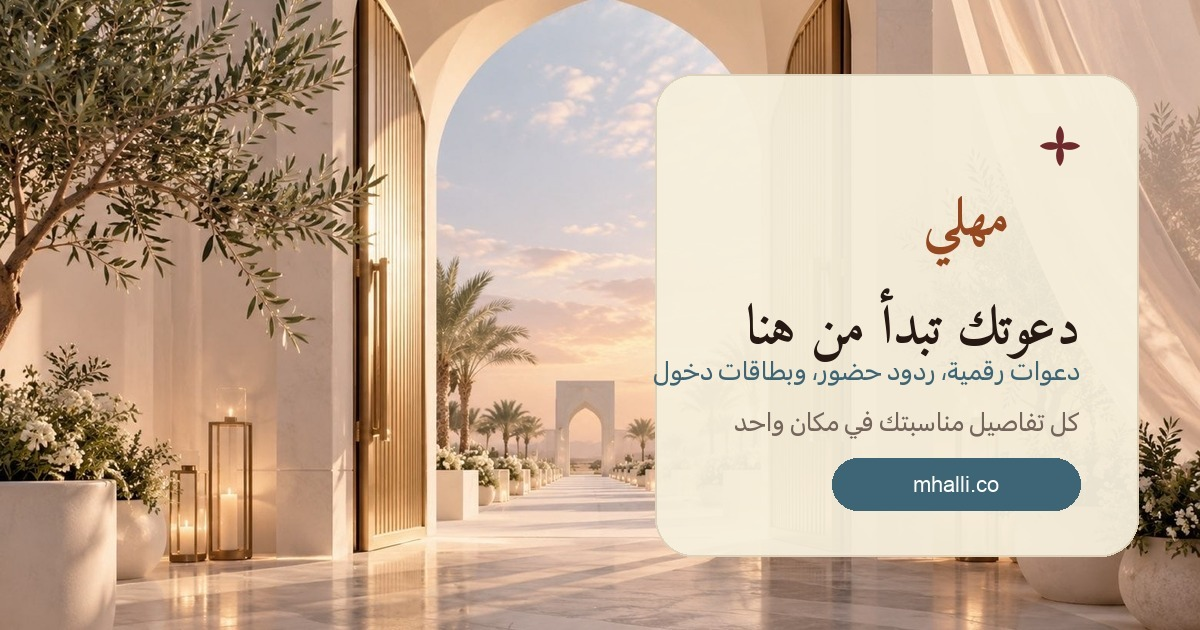
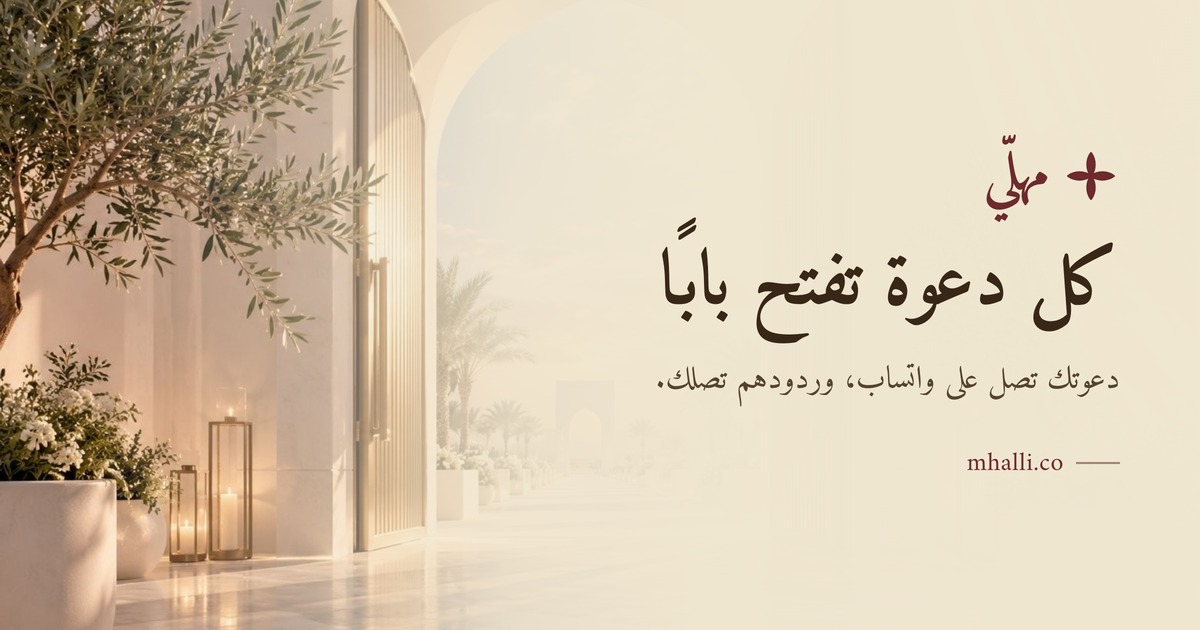
fix: one continuous thread, prices on load, and a share image worth sending
Three things.

**The chat now reads as one conversation.** It was cross-fading three
separate screens, so each step looked like a different thread starting
over. Every message now arrives under the last and the column slides up to
keep the newest in view, the way a real chat does — invitation, the
guest's tap coming back green, the confirmation, the pass.

**The prices are on the page when it loads.** Hiding them behind picking
the digital-invitation track was the instruction, and the rule still holds
— choosing the link track still hides them — but in practice it just read
as a site with no prices, three times over. It is the default that
changed, not the rule.

**New share image.** The old one had the wordmark spelled "مهلي" without
the shadda, the retired teal on the URL pill, and a white card dropped on
top of the photograph with four crowded lines inside it. Now: the
photograph with a warm scrim, the mark, the headline, one line, the
domain. Rendered through the app's own fonts and tokens so it cannot drift
from the site again.

Two things found on the way. My earlier CSS edit had deleted the
.phone-stage rules along with the animation block it replaced — the photo
was rendering unscaled with the chat floating beside it, which the render
showed immediately and the type checker could not. And audit:design was
measuring screen-reader-only text, which is clipped to 1px and not on
screen; it now skips anything that size.

diff --git a/components/marketing/guest-journey-scene.tsx b/components/marketing/guest-journey-scene.tsx
@@ -220,56 +220,70 @@ export function GuestJourneyScene({ copy, locale }: { copy: Copy; locale: string
 
           <div className="whatsapp-wallpaper absolute inset-x-0 top-[108px] bottom-[76px]" />
 
-          <div className="journey-screen journey-invite absolute inset-x-3 top-[108px] bottom-[76px] flex items-center">
-            <div className={`me-auto w-[285px] overflow-hidden bg-white ${bubble}`}>
-              <div className="relative aspect-square w-full overflow-hidden bg-[#f6efdc]">
-                <div className="absolute top-0 left-0 origin-top-left scale-[0.2639]">
-                  <SquareWeddingTemplate data={invitation} />
+          {/* One thread, filling up — not three screens taking turns.
+              Each message arrives under the last and the column slides up
+              to keep the newest in view, which is what a real chat does.
+              The cross-fade this replaces made every step look like a
+              different conversation. */}
+          <div className="absolute inset-x-3 top-[108px] bottom-[76px] overflow-hidden">
+            <div className="journey-thread flex flex-col gap-2 pt-2">
+              <div
+                className={`journey-msg journey-msg-1 me-auto w-[285px] overflow-hidden bg-white ${bubble}`}
+              >
+                <div className="relative aspect-square w-full overflow-hidden bg-[#f6efdc]">
+                  <div className="absolute top-0 left-0 origin-top-left scale-[0.2639]">
+                    <SquareWeddingTemplate data={invitation} />
+                  </div>
+                </div>
+                <p className="px-3 pt-2 pb-1.5 text-[14.5px] leading-[21px]">
+                  {copy.invitationText}
+                  <span className={`ms-2 ${rtl ? 'float-left' : 'float-right'} ${stamp}`}>
+                    {clock('12:20')}
+                  </span>
+                </p>
+                <div className="border-t border-[#e9edef]">
+                  {actions.map(([label, Icon]) => (
+                    <div
+                      key={String(label)}
+                      className="flex h-[42px] items-center justify-center gap-1.5 border-b border-[#e9edef] text-[15px] font-medium text-[#00a884] last:border-0"
+                    >
+                      <Icon className="size-[15px]" />
+                      {label}
+                    </div>
+                  ))}
                 </div>
               </div>
-              <p className="px-3 pt-2 pb-1.5 text-[14.5px] leading-[21px]">
-                {copy.invitationText}
-                <span className={`ms-2 ${rtl ? 'float-left' : 'float-right'} ${stamp}`}>
-                  {clock('12:20')}
-                </span>
-              </p>
-              <div className="border-t border-[#e9edef]">
-                {actions.map(([label, Icon]) => (
-                  <div
-                    key={String(label)}
-                    className="flex h-[42px] items-center justify-center gap-1.5 border-b border-[#e9edef] text-[15px] font-medium text-[#00a884] last:border-0"
-                  >
-                    <Icon className="size-[15px]" />
-                    {label}
-                  </div>
-                ))}
+
+              <div
+                className={`journey-msg journey-msg-2 ms-auto max-w-[70%] bg-[#d9fdd3] px-3 py-2 ${bubble}`}
+              >
+                <p className="text-[15px] leading-[20px]">{copy.confirmationReply}</p>
+                <p className={`${rtl ? 'text-left' : 'text-right'} ${stamp}`}>
+                  {clock('12:25')} ✓✓
+                </p>
               </div>
-            </div>
-          </div>
 
-          <div className="journey-screen journey-confirm absolute inset-x-3 top-[108px] bottom-[76px] flex flex-col justify-center gap-2">
-            <div className={`ms-auto max-w-[70%] bg-[#d9fdd3] px-3 py-2 ${bubble}`}>
-              <p className="text-[15px] leading-[20px]">{copy.confirmationReply}</p>
-              <p className={`${rtl ? 'text-left' : 'text-right'} ${stamp}`}>{clock('12:25')} ✓✓</p>
-            </div>
-            <div className={`me-auto max-w-[85%] bg-white px-3 py-2 ${bubble}`}>
-              <p className="text-[15px] leading-[21px]">{copy.confirmationReceipt}</p>
-              <p className={`${rtl ? 'text-left' : 'text-right'} ${stamp}`}>{clock('12:25')}</p>
-            </div>
-          </div>
+              <div
+                className={`journey-msg journey-msg-3 me-auto max-w-[85%] bg-white px-3 py-2 ${bubble}`}
+              >
+                <p className="text-[15px] leading-[21px]">{copy.confirmationReceipt}</p>
+                <p className={`${rtl ? 'text-left' : 'text-right'} ${stamp}`}>{clock('12:25')}</p>
+              </div>
 
-          <div className="journey-screen journey-pass absolute inset-x-3 top-[108px] bottom-[76px] flex items-center">
-            <div className={`me-auto w-[285px] overflow-hidden bg-white p-1.5 ${bubble}`}>
-              <Image
-                src="/images/marketing/entry-pass-example.png"
-                width={1024}
-                height={1536}
-                alt={`${copy.passTitle} — ${copy.passCaption}`}
-                className="h-auto w-full rounded-[6px]"
-              />
-              <p className={`px-1 pt-1 ${rtl ? 'text-left' : 'text-right'} ${stamp}`}>
-                {clock('12:26')}
-              </p>
+              <div
+                className={`journey-msg journey-msg-4 me-auto w-[285px] overflow-hidden bg-white p-1.5 ${bubble}`}
+              >
+                <Image
+                  src="/images/marketing/entry-pass-example.png"
+                  width={1024}
+                  height={1536}
+                  alt={`${copy.passTitle} — ${copy.passCaption}`}
+                  className="h-auto w-full rounded-[6px]"
+                />
+                <p className={`px-1 pt-1 ${rtl ? 'text-left' : 'text-right'} ${stamp}`}>
+                  {clock('12:26')}
+                </p>
+              </div>
             </div>
           </div>
 

diff --git a/app/globals.css b/app/globals.css
@@ -218,56 +218,7 @@ html[dir='rtl'] {
   }
 }
 
-/* A lightweight product walkthrough in the marketing phone preview. It
-   replaces a large GIF with real, sharp text and brand tokens while telling
-   the same three-beat story: invitation, reply, entry pass. */
-@keyframes journey-invite {
-  0%,
-  29% {
-    opacity: 1;
-    transform: translateY(0);
-  }
-  34%,
-  100% {
-    opacity: 0;
-    transform: translateY(-0.75rem);
-  }
-}
-@keyframes journey-confirm {
-  0%,
-  29%,
-  62%,
-  100% {
-    opacity: 0;
-    transform: scale(0.96);
-  }
-  35%,
-  56% {
-    opacity: 1;
-    transform: scale(1);
-  }
-}
-@keyframes journey-pass {
-  0%,
-  57% {
-    opacity: 0;
-    transform: translateY(0.75rem);
-  }
-  64%,
-  94% {
-    opacity: 1;
-    transform: translateY(0);
-  }
-  100% {
-    opacity: 0;
-    transform: translateY(0.75rem);
-  }
-}
-.journey-screen {
-  will-change: opacity, transform;
-}
-
-/* The phone photo is laid out at its own 1448x1086 pixels so everything
+/* The phone photo is laid out at its own 1312x1199 pixels so everything
    composited onto it — above all the projective transform that maps a
    390x844 screen onto the tilted screen in the photo — can be written in
    the photo's coordinates once and stay correct at every viewport. The
@@ -290,6 +241,133 @@ html[dir='rtl'] {
   height: 1199px;
   transform: scale(var(--stage-scale));
   transform-origin: top left;
+}
+
+/* The marketing phone preview plays one conversation filling up, the way
+   a real thread does: each message arrives under the last, and the column
+   slides up so the newest stays in view. It used to cross-fade three
+   separate screens, which read as three different conversations rather
+   than one story.
+
+   Every message runs the same 9s clock; what differs is where in that
+   clock it appears, so the sequence stays in step without JS. The slide
+   only happens at the end, when the entry pass pushes the thread past the
+   height of the screen — before that everything still fits. */
+@keyframes journey-msg-1 {
+  0%,
+  1% {
+    opacity: 0;
+    transform: translateY(10px);
+  }
+  5%,
+  93% {
+    opacity: 1;
+    transform: translateY(0);
+  }
+  97%,
+  100% {
+    opacity: 0;
+    transform: translateY(0);
+  }
+}
+@keyframes journey-msg-2 {
+  0%,
+  27% {
+    opacity: 0;
+    transform: translateY(10px);
+  }
+  32%,
+  93% {
+    opacity: 1;
+    transform: translateY(0);
+  }
+  97%,
+  100% {
+    opacity: 0;
+  }
+}
+@keyframes journey-msg-3 {
+  0%,
+  45% {
+    opacity: 0;
+    transform: translateY(10px);
+  }
+  50%,
+  93% {
+    opacity: 1;
+    transform: translateY(0);
+  }
+  97%,
+  100% {
+    opacity: 0;
+  }
+}
+@keyframes journey-msg-4 {
+  0%,
+  63% {
+    opacity: 0;
+    transform: translateY(10px);
+  }
+  68%,
+  93% {
+    opacity: 1;
+    transform: translateY(0);
+  }
+  97%,
+  100% {
+    opacity: 0;
+  }
+}
+@keyframes journey-thread-scroll {
+  0%,
+  30% {
+    transform: translateY(0);
+  }
+  38%,
+  60% {
+    transform: translateY(-38px);
+  }
+  70%,
+  93% {
+    transform: translateY(-394px);
+  }
+  99%,
+  100% {
+    transform: translateY(0);
+  }
+}
+.journey-msg {
+  opacity: 0;
+  will-change: opacity, transform;
+  animation-duration: 9s;
+  animation-timing-function: var(--ease-out);
+  animation-iteration-count: infinite;
+}
+.journey-msg-1 {
+  animation-name: journey-msg-1;
+}
+.journey-msg-2 {
+  animation-name: journey-msg-2;
+}
+.journey-msg-3 {
+  animation-name: journey-msg-3;
+}
+.journey-msg-4 {
+  animation-name: journey-msg-4;
+}
+.journey-thread {
+  will-change: transform;
+  animation: journey-thread-scroll 9s var(--ease-in-out) infinite;
+}
+@media (prefers-reduced-motion: reduce) {
+  .journey-thread {
+    animation: none;
+    transform: translateY(-394px);
+  }
+  .journey-msg {
+    animation: none;
+    opacity: 1;
+  }
 }
 .whatsapp-wallpaper {
   background-color: #efeae2;

diff --git a/components/marketing/track-options-selector.tsx b/components/marketing/track-options-selector.tsx
@@ -31,15 +31,20 @@ export function TrackOptionsSelector({
   options: TrackOption[];
   pricing: PriceCalculatorCopy;
 }) {
-  const [selected, setSelected] = useState<JourneyKey | null>(null);
+  // Starts on the digital-invitation track, which means the price is on
+  // the page the moment it loads. Hiding it behind a click was the
+  // instruction — pricing belongs to this track and not to the link
+  // track — but in practice it just read as a site with no prices, three
+  // times over. Selecting the other track still hides it, so the rule
+  // holds; it is the default that changed, not the rule.
+  const [selected, setSelected] = useState<JourneyKey | null>('invitation');
   const pricingRef = useRef<HTMLDivElement>(null);
+  const hasChosen = useRef(false);
 
-  // The price only exists once a track is chosen, and it appears below
-  // the fold on a phone — so choosing has to take the visitor to it.
-  // Without this the calculator opened somewhere off-screen and read as
-  // "there is no pricing on this site".
+  // Scroll to the price when a visitor picks this track — but never on
+  // load, or the page would jump past the hero on its own.
   useEffect(() => {
-    if (selected !== 'invitation') return;
+    if (!hasChosen.current || selected !== 'invitation') return;
     pricingRef.current?.scrollIntoView({ behavior: 'smooth', block: 'nearest' });
   }, [selected]);
   const selectedOption = options.find((option) => option.key === selected);
@@ -58,7 +63,10 @@ export function TrackOptionsSelector({
               type="button"
               role="radio"
               aria-checked={isSelected}
-              onClick={() => setSelected(option.key)}
+              onClick={() => {
+                hasChosen.current = true;
+                setSelected(option.key);
+              }}
               className={`bg-card/75 text-primary focus-visible:ring-ring/60 grid w-full grid-cols-[auto_1fr] items-center gap-4 rounded-2xl border p-5 text-start shadow-sm transition-[border-color,box-shadow,transform] hover:-translate-y-0.5 hover:shadow-md focus-visible:ring-3 focus-visible:outline-none sm:p-6 ${
                 isSelected
                   ? 'border-secondary ring-secondary/35 ring-3'

diff --git a/components/marketing/price-calculator.tsx b/components/marketing/price-calculator.tsx
@@ -162,7 +162,7 @@ export function PriceCalculator({
                 somebody declines, which is why the line below says "added"
                 rather than "invited". */}
             <div className="mt-2 flex w-full max-w-[21rem] items-center justify-center gap-3">
-              <span title={copy.reserveHint} className="text-primary/70 shrink-0">
+              <span title={copy.reserveHint} className="text-primary shrink-0">
                 <InfoIcon className="size-4" />
                 <span className="sr-only">{copy.reserveHint}</span>
               </span>
